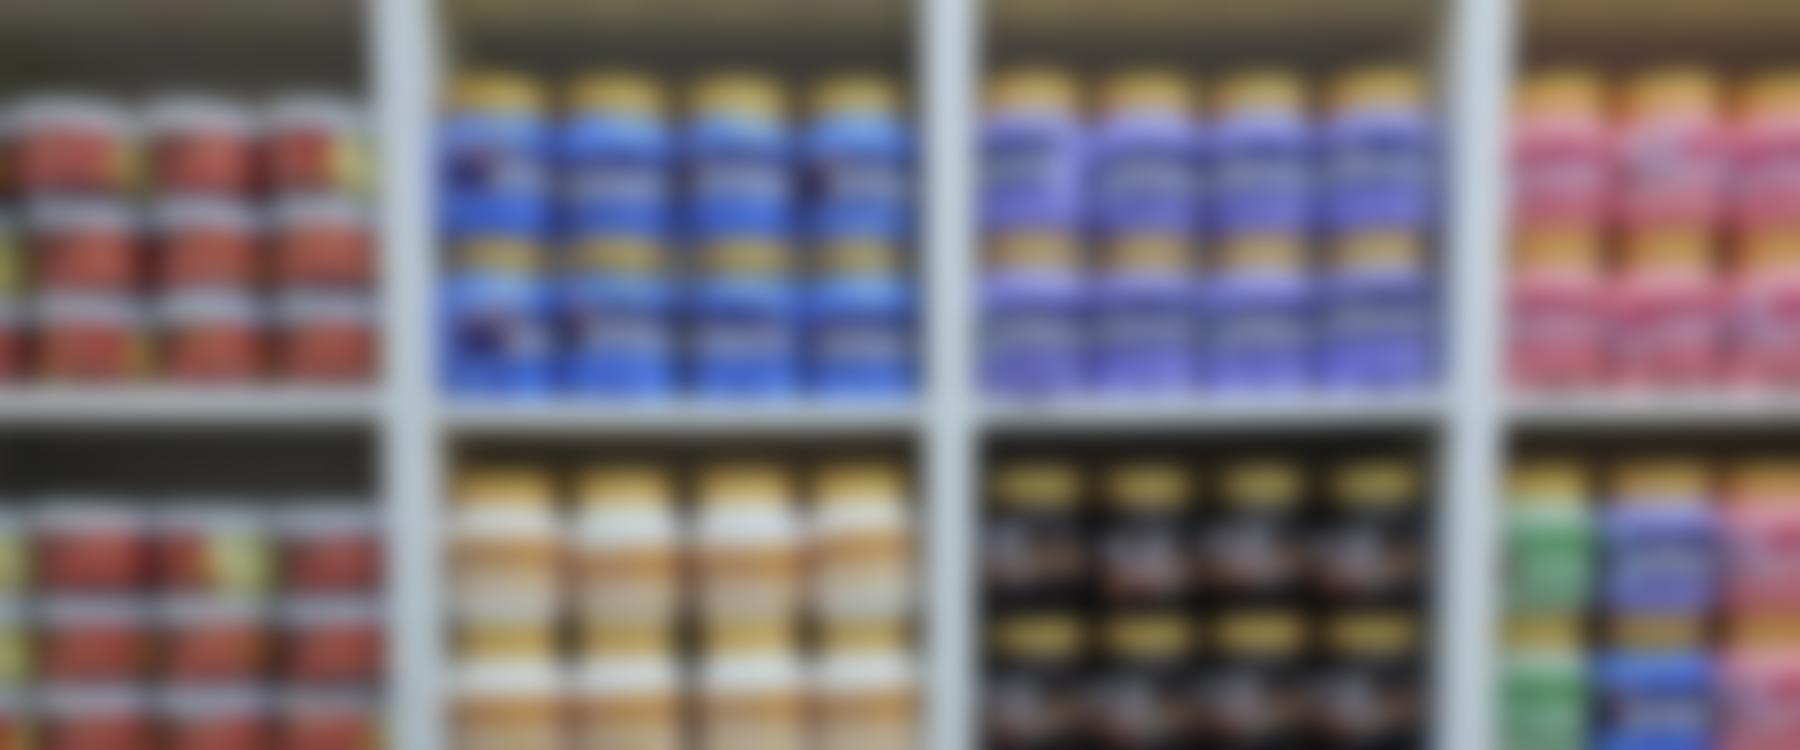
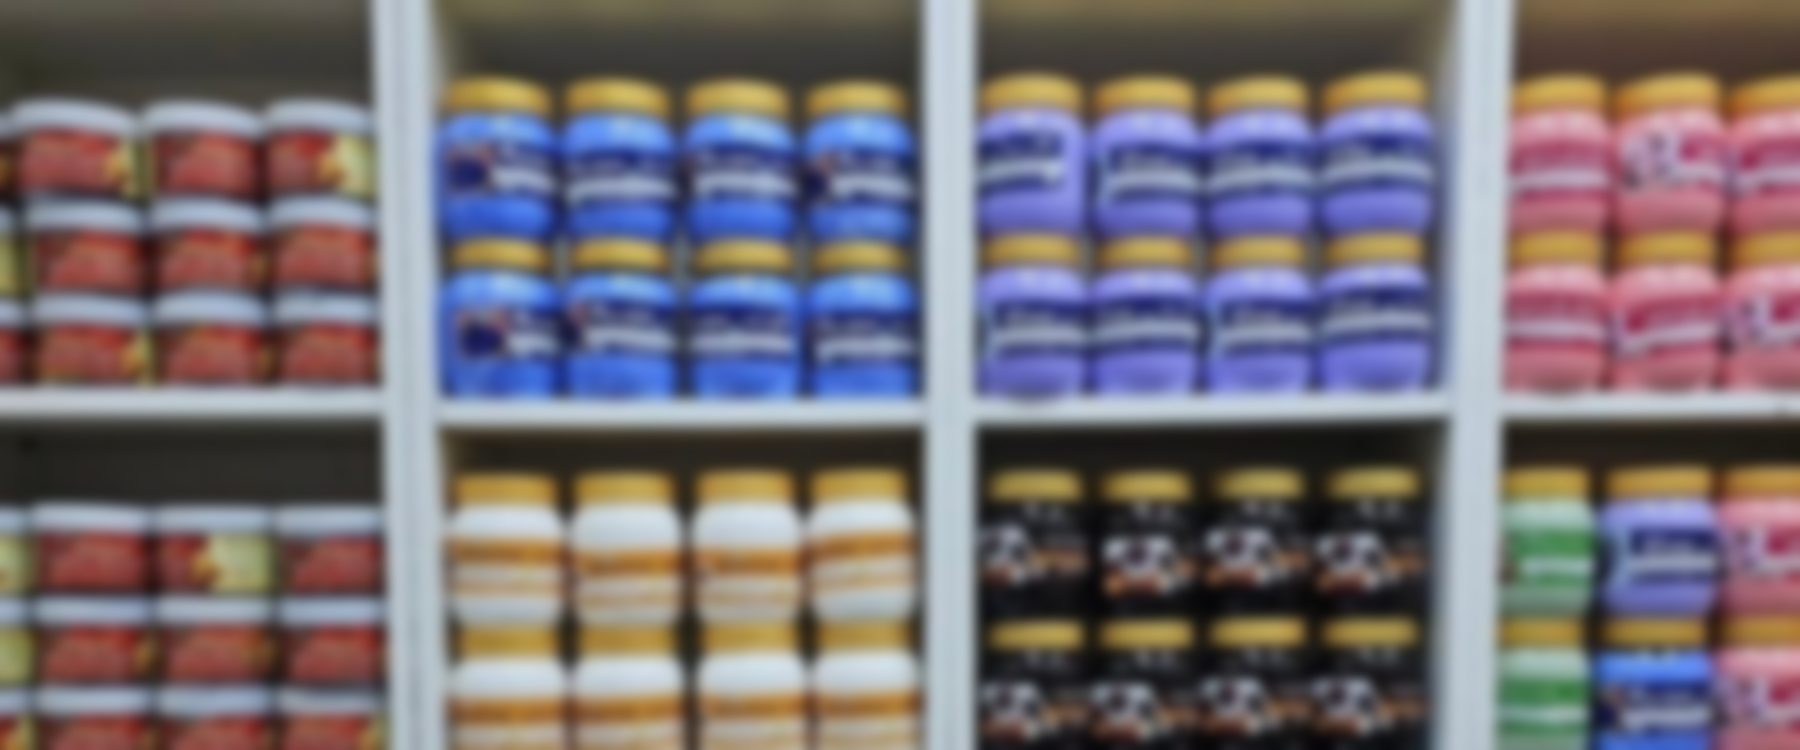
Drop the closing price band and the WhatsApp sample, and show the shelf a little more clearly.

diff --git a/index.html b/index.html
@@ -25,7 +25,7 @@
   <link rel="preconnect" href="https://fonts.gstatic.com" crossorigin>
   <link href="https://fonts.googleapis.com/css2?family=Fraunces:opsz,wght@9..144,500;9..144,600;9..144,700&family=Outfit:wght@400;500;600;700&display=swap" rel="stylesheet">
   <link href="https://fonts.googleapis.com/css2?family=Noto+Naskh+Arabic:wght@500;600;700&family=Noto+Nastaliq+Urdu:wght@500;600;700&family=Noto+Sans+Arabic:wght@400;500;600;700&family=Noto+Sans+Devanagari:wght@400;500;600;700&family=Noto+Sans+Ethiopic:wght@400;500;600;700&display=swap" rel="stylesheet">
-  <link rel="stylesheet" href="styles.css?v=theme42">
+  <link rel="stylesheet" href="styles.css?v=theme44">
   <script type="application/ld+json">
   {
     "@context": "https://schema.org",
@@ -626,7 +626,7 @@
   <main id="main">
     <section class="hero" aria-labelledby="hero-title">
       <div class="hero__photo" aria-hidden="true">
-        <img src="images/hero-shelf.jpg?v=2" alt="" width="1800" height="750">
+        <img src="images/hero-shelf.jpg?v=3" alt="" width="1800" height="750">
       </div>
       <div class="wrap hero__grid">
         <div class="hero__copy">
@@ -805,18 +805,6 @@
             </a>
             <p class="hint">This is a price check. Choose the pieces in the collection, then send the order from checkout. This check goes up to 60 pieces. An order can include up to 20 of each piece.</p>
           </div>
-
-          <div class="panel chat">
-            <p class="panel__kicker">When you message us</p>
-            <h3>WhatsApp welcome</h3>
-            <div class="chat__bubble">
-              <p>Welcome to Ghafric Bazzar UAE! 🇦🇪</p>
-              <p>Every body care piece is 30 AED.</p>
-              <p>Delivery is 25 AED and takes 1 to 3 business days. Cash on delivery adds 10 AED.</p>
-              <p>We are online daily from 10 AM to 12 AM.</p>
-              <p>To order, add the pieces on this site and send the order from checkout. The message includes the pieces, the address, and the Ziina link.</p>
-            </div>
-          </div>
         </div>
       </div>
     </section>
@@ -833,18 +821,6 @@
       </div>
     </section>
 
-    <section class="closer" aria-labelledby="closer-title">
-      <div class="wrap closer__inner">
-        <div>
-          <h2 id="closer-title">Every piece, 30 AED.</h2>
-          <p>Open daily from 10:00 AM to 12:00 AM. Delivery is 25 AED and takes 1 to 3 business days. Cash on delivery adds 10 AED.</p>
-        </div>
-        <a class="btn btn--light" href="checkout.html">
-          <svg class="icon" aria-hidden="true"><use href="#i-wa"></use></svg>
-          <span>Order via WhatsApp</span>
-        </a>
-      </div>
-    </section>
   </main>
 
   <footer class="footer" id="contact">

diff --git a/styles.css b/styles.css
@@ -1101,14 +1101,6 @@ html.js .cat-group:not(.is-on) {
   font-size: 0.92rem;
 }
 
-.chat__bubble p {
-  margin: 0 0 0.55rem;
-}
-
-.chat__bubble p:last-child {
-  margin-bottom: 0;
-}
-
 .about-card {
   max-width: 50rem;
   background: var(--paper);
@@ -1148,31 +1140,6 @@ html.js .cat-group:not(.is-on) {
 .about__price strong {
   color: var(--terracotta-deep);
   font-weight: 700;
-}
-
-.closer {
-  background: var(--pink);
-  color: var(--ink);
-}
-
-.closer__inner {
-  display: flex;
-  flex-wrap: wrap;
-  align-items: center;
-  justify-content: space-between;
-  gap: 1.2rem;
-  padding: 2.4rem 0;
-}
-
-.closer h2 {
-  color: var(--ink);
-  margin-bottom: 0.45rem;
-}
-
-.closer p {
-  margin: 0;
-  max-width: 38rem;
-  color: var(--ink);
 }
 
 .footer {
@@ -1422,7 +1389,6 @@ html.js .cat-group:not(.is-on) {
     grid-template-columns: repeat(4, 1fr);
   }
 
-  .order-grid,
   .checkout {
     grid-template-columns: 1fr 1fr;
     align-items: start;

diff --git a/404.html b/404.html
@@ -12,7 +12,7 @@
   <link rel="preconnect" href="https://fonts.gstatic.com" crossorigin>
   <link href="https://fonts.googleapis.com/css2?family=Fraunces:opsz,wght@9..144,500;9..144,600;9..144,700&family=Outfit:wght@400;500;600;700&display=swap" rel="stylesheet">
   <link href="https://fonts.googleapis.com/css2?family=Noto+Naskh+Arabic:wght@500;600;700&family=Noto+Nastaliq+Urdu:wght@500;600;700&family=Noto+Sans+Arabic:wght@400;500;600;700&family=Noto+Sans+Devanagari:wght@400;500;600;700&family=Noto+Sans+Ethiopic:wght@400;500;600;700&display=swap" rel="stylesheet">
-  <link rel="stylesheet" href="/styles.css?v=theme42">
+  <link rel="stylesheet" href="/styles.css?v=theme44">
 </head>
 <body>
   <a class="skip" href="#main">Skip to content</a>

diff --git a/checkout.html b/checkout.html
@@ -26,7 +26,7 @@
   <link rel="preconnect" href="https://fonts.gstatic.com" crossorigin>
   <link href="https://fonts.googleapis.com/css2?family=Fraunces:opsz,wght@9..144,500;9..144,600;9..144,700&family=Outfit:wght@400;500;600;700&display=swap" rel="stylesheet">
   <link href="https://fonts.googleapis.com/css2?family=Noto+Naskh+Arabic:wght@500;600;700&family=Noto+Nastaliq+Urdu:wght@500;600;700&family=Noto+Sans+Arabic:wght@400;500;600;700&family=Noto+Sans+Devanagari:wght@400;500;600;700&family=Noto+Sans+Ethiopic:wght@400;500;600;700&display=swap" rel="stylesheet">
-  <link rel="stylesheet" href="styles.css?v=theme42">
+  <link rel="stylesheet" href="styles.css?v=theme44">
 </head>
 <body>
   <a class="skip" href="#main">Skip to content</a>

diff --git a/category.html b/category.html
@@ -1310,7 +1310,7 @@
   <link href="https://fonts.googleapis.com/css2?family=Fraunces:opsz,wght@9..144,500;9..144,600;9..144,700&family=Outfit:wght@400;500;600;700&display=swap" rel="stylesheet">
   <link href="https://fonts.googleapis.com/css2?family=Noto+Naskh+Arabic:wght@500;600;700&family=Noto+Nastaliq+Urdu:wght@500;600;700&family=Noto+Sans+Arabic:wght@400;500;600;700&family=Noto+Sans+Devanagari:wght@400;500;600;700&family=Noto+Sans+Ethiopic:wght@400;500;600;700&display=swap" rel="stylesheet">
   <script>document.documentElement.classList.add("js");</script>
-  <link rel="stylesheet" href="styles.css?v=theme42">
+  <link rel="stylesheet" href="styles.css?v=theme44">
 </head>
 <body>
   <a class="skip" href="#main">Skip to content</a>
